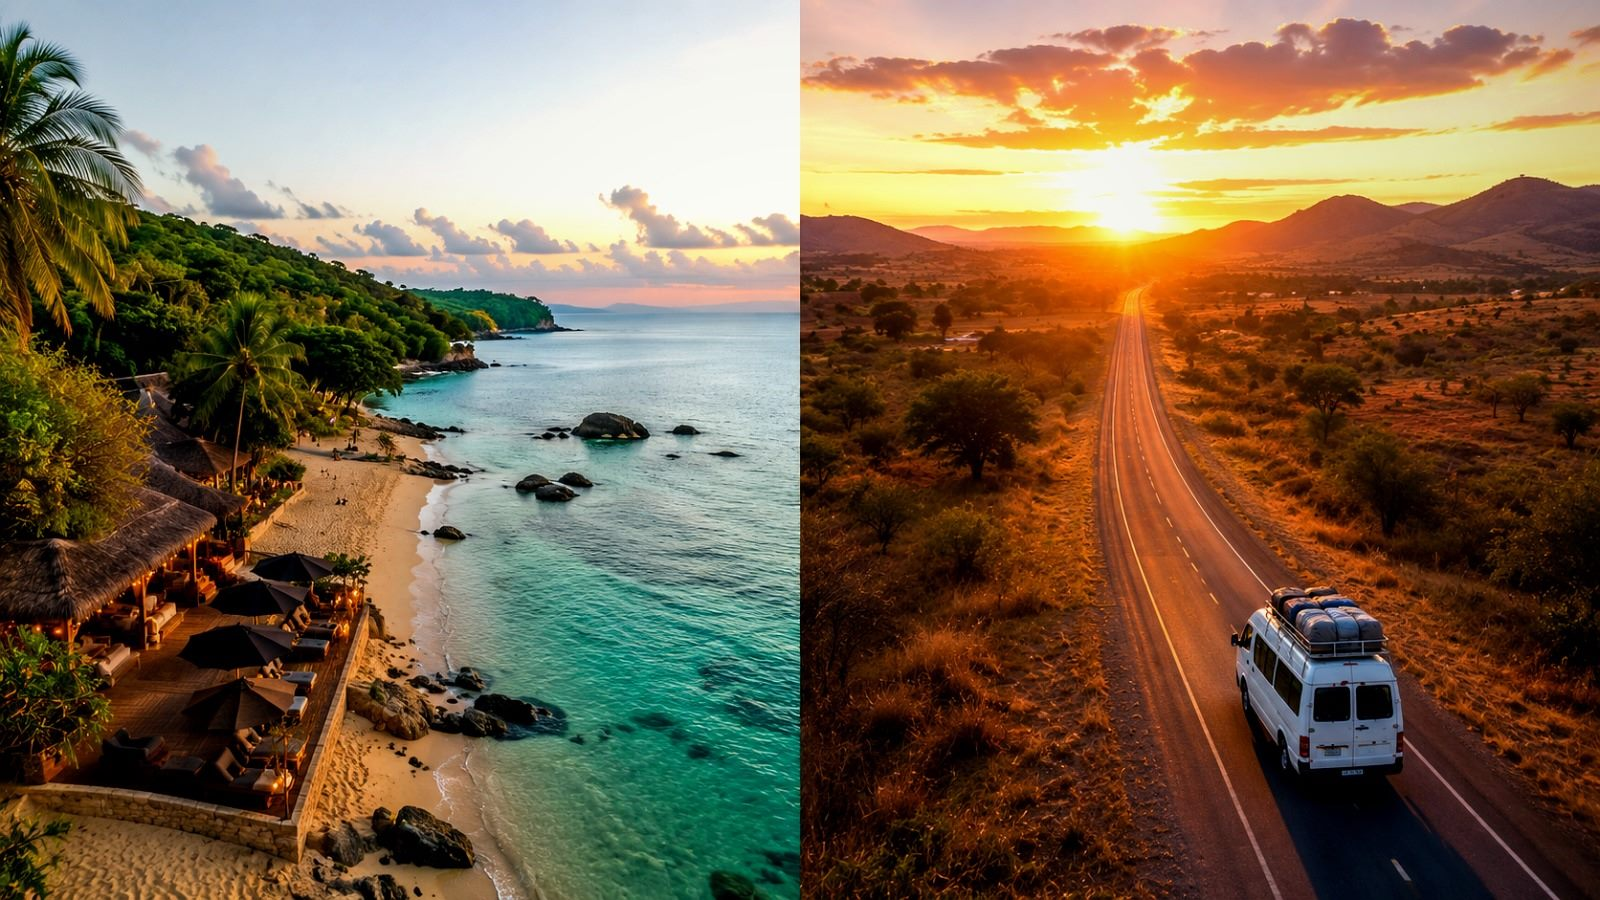
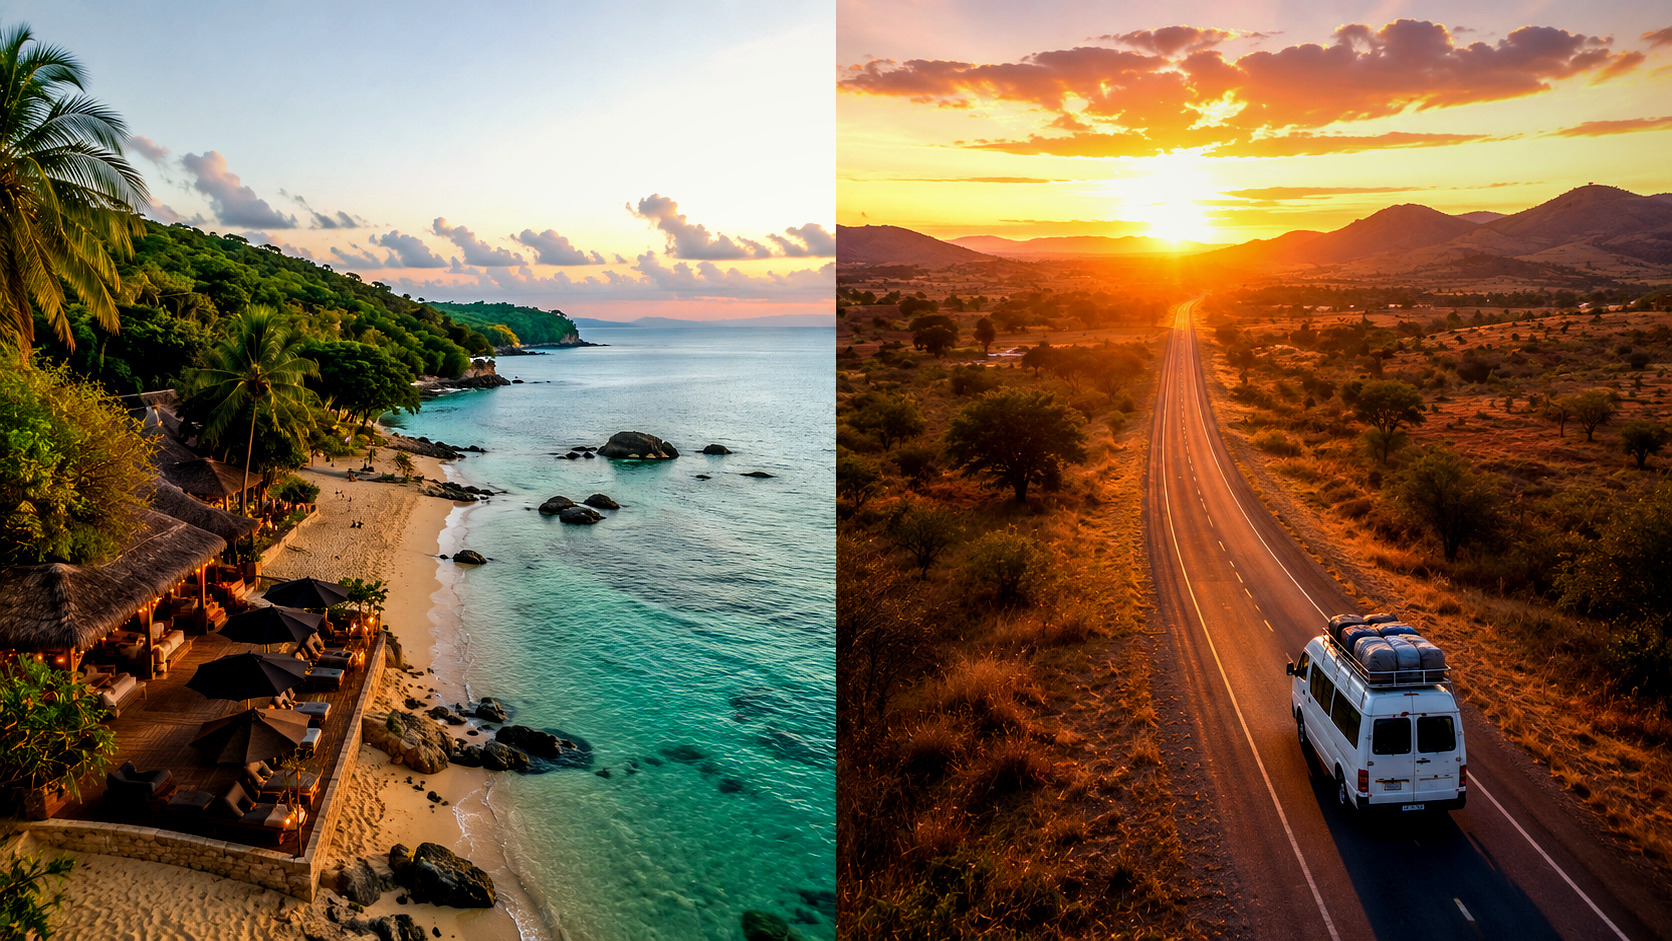
Retire le voile sombre des heros au profit d'un cartouche de texte
Les photos hero (mere, CVM, MLR et pages routes) restent nettes et
pleinement visibles : plus de degrade assombrissant global ni d'ombres
portees sur le texte — le contraste est porte par un cartouche sombre
semi-transparent arrondi (backdrop-blur) derriere le bloc de texte.
Stamp gagne un ton « contrast » pour rester lisible dans le cartouche.
Exports haute resolution des triptyques integres ; alt et labels
alignes sur le contenu reel des visuels.

diff --git a/src/components/sections/HeroBackground.tsx b/src/components/sections/HeroBackground.tsx
@@ -10,49 +10,42 @@ type Props = {
 };
 
 /**
- * Fond plein cadre d'un hero : tant que `src` est absent, un dégradé
- * placeholder clair (voile clair, texte sombre par-dessus) réserve la place
- * et porte l'alt. Une fois l'asset fourni, la vraie photo le remplace,
- * nette et pleine résolution ; seul un voile sombre concentré en haut du
- * cadre (là où vit le texte, en mobile comme en PC) assure le contraste —
- * le reste de la photo reste net et pleinement visible, mis en valeur.
+ * Fond plein cadre d'un hero. Une fois l'asset fourni (`src`), la photo occupe
+ * tout le cadre, nette et pleine résolution, SANS voile assombrissant : la
+ * lisibilité du texte clair est assurée localement par un cartouche sombre
+ * (voir Hero / MlrRoutePage), pas par un voile global — l'image reste ainsi
+ * pleinement visible et mise en valeur. Tant que `src` est absent, un dégradé
+ * placeholder clair réserve la place, porte l'alt et laisse lire le texte
+ * sombre par-dessus.
  */
 export function HeroBackground({ label, alt, src }: Props) {
-  return (
+  return src ? (
+    <Image
+      src={src}
+      alt={alt}
+      fill
+      priority
+      quality={90}
+      sizes="100vw"
+      className="object-cover"
+    />
+  ) : (
     <>
-      {src ? (
-        <Image
-          src={src}
-          alt={alt}
-          fill
-          priority
-          quality={90}
-          sizes="100vw"
-          className="object-cover"
-        />
-      ) : (
-        <div
-          role="img"
-          aria-label={alt}
-          className="absolute inset-0 bg-linear-to-br from-surface-2 via-card to-accent-soft/40"
-        />
-      )}
+      <div
+        role="img"
+        aria-label={alt}
+        className="absolute inset-0 bg-linear-to-br from-surface-2 via-card to-accent-soft/40"
+      />
       <div
         aria-hidden
-        className={
-          src
-            ? "absolute inset-0 bg-linear-to-b from-ink-strong/75 via-ink-strong/20 to-transparent"
-            : "absolute inset-0 bg-linear-to-br from-surface/85 via-surface/65 to-surface/50"
-        }
+        className="absolute inset-0 bg-linear-to-br from-surface/85 via-surface/65 to-surface/50"
       />
-      {!src && (
-        <span
-          aria-hidden
-          className="pointer-events-none absolute bottom-2 right-3 max-w-[45%] truncate text-[10px] font-medium uppercase tracking-wide text-ink-soft/45"
-        >
-          {label}
-        </span>
-      )}
+      <span
+        aria-hidden
+        className="pointer-events-none absolute bottom-2 right-3 max-w-[45%] truncate text-[10px] font-medium uppercase tracking-wide text-ink-soft/45"
+      >
+        {label}
+      </span>
     </>
   );
 }

diff --git a/src/components/pages/MlrRoutePage.tsx b/src/components/pages/MlrRoutePage.tsx
@@ -7,6 +7,7 @@ import { SectionHeading } from "@/components/sections/SectionHeading";
 import { TempsForts } from "@/components/sections/TempsForts";
 import { Pill, Stamp } from "@/components/ui/Pill";
 import { ScrollCtaLink } from "@/components/ui/ScrollCtaLink";
+import { cn } from "@/lib/cn";
 import {
   MLR_SERVICES,
   MLR_STAMP,
@@ -20,6 +21,9 @@ import {
  * bas de page, route pré-sélectionnée : les CTA scrollent vers lui.
  */
 export function MlrRoutePage({ content }: { content: MlrRouteContent }) {
+  // Photo posée : cartouche sombre + texte clair (l'image reste sans voile) ;
+  // sinon dégradé placeholder clair, texte sombre par-dessus (voir Hero).
+  const hasImage = Boolean(content.imageAmbiance.src);
   return (
     <>
       <section className="relative overflow-hidden">
@@ -29,15 +33,36 @@ export function MlrRoutePage({ content }: { content: MlrRouteContent }) {
           src={content.imageAmbiance.src}
         />
         <div className="relative z-10 mx-auto w-full max-w-6xl px-4 py-14 sm:px-6 sm:py-20 lg:py-24">
-          <div className="animate-fade-rise max-w-2xl">
-            <Stamp>{MLR_STAMP}</Stamp>
-            <h1 className="mt-4 font-heading text-4xl font-bold uppercase tracking-wide text-ink-strong sm:text-6xl">
+          <div
+            className={cn(
+              "animate-fade-rise max-w-2xl",
+              hasImage &&
+                "rounded-2xl bg-ink-strong/30 p-6 backdrop-blur-sm sm:p-8",
+            )}
+          >
+            <Stamp tone={hasImage ? "contrast" : "accent"}>{MLR_STAMP}</Stamp>
+            <h1
+              className={cn(
+                "mt-4 font-heading text-4xl font-bold uppercase tracking-wide sm:text-6xl",
+                hasImage ? "text-accent-contrast" : "text-ink-strong",
+              )}
+            >
               {content.titre}
             </h1>
-            <p className="mt-3 max-w-prose text-lg text-ink-soft">
+            <p
+              className={cn(
+                "mt-3 max-w-prose text-lg",
+                hasImage ? "text-accent-contrast/90" : "text-ink-soft",
+              )}
+            >
               {content.sousTitre}
             </p>
-            <p className="mt-4 font-heading text-lg font-bold uppercase tracking-wide text-accent">
+            <p
+              className={cn(
+                "mt-4 font-heading text-lg font-bold uppercase tracking-wide",
+                hasImage ? "text-accent-contrast" : "text-accent",
+              )}
+            >
               {MLR_TARIFS.dixJours} · {MLR_TARIFS.quinzeJours}
             </p>
             <div className="mt-2">
@@ -47,11 +72,26 @@ export function MlrRoutePage({ content }: { content: MlrRouteContent }) {
               <ScrollCtaLink targetId="questionnaire">
                 {content.ctaLabel}
               </ScrollCtaLink>
-              <ScrollCtaLink targetId="devis-explicatif" variant="outline">
+              <ScrollCtaLink
+                targetId="devis-explicatif"
+                variant="outline"
+                className={
+                  hasImage
+                    ? "!border-accent-contrast !text-accent-contrast hover:!bg-accent-contrast/15"
+                    : undefined
+                }
+              >
                 Découvrir le devis explicatif
               </ScrollCtaLink>
             </div>
-            <p className="mt-4 text-xs text-ink-soft">{MLR_TARIFS.idealPour}</p>
+            <p
+              className={cn(
+                "mt-4 text-xs",
+                hasImage ? "text-accent-contrast/85" : "text-ink-soft",
+              )}
+            >
+              {MLR_TARIFS.idealPour}
+            </p>
           </div>
         </div>
       </section>

diff --git a/src/components/sections/Hero.tsx b/src/components/sections/Hero.tsx
@@ -22,9 +22,9 @@ type Props = {
  * Hero générique — image en fond plein cadre, identique en mobile et en PC.
  * Le CTA principal reste above the fold en 390×844. Tant qu'aucune photo
  * réelle n'est fournie (`imageSrc`), le texte reste sombre sur le dégradé
- * placeholder clair ; une fois la photo posée, le texte bascule en clair
- * (+ ombre portée) sur un voile sombre concentré en haut du cadre, pour que
- * l'image reste lisible et mise en valeur sur le reste du cadre.
+ * placeholder clair ; une fois la photo posée, l'image reste pleinement
+ * visible (aucun voile global) et le texte bascule en clair sur un cartouche
+ * sombre semi-transparent à coins arrondis, qui porte seul le contraste.
  */
 export function Hero({
   surtitre,
@@ -42,14 +42,19 @@ export function Hero({
     <section className="relative overflow-hidden">
       <HeroBackground label={imageLabel} alt={imageAlt} src={imageSrc} />
       <div className="relative z-10 mx-auto w-full max-w-6xl px-4 py-14 sm:px-6 sm:py-20 lg:py-28">
-        <div className="animate-fade-rise max-w-2xl">
+        <div
+          className={cn(
+            "animate-fade-rise max-w-2xl",
+            // Cartouche sombre : porte le contraste du texte clair sans voiler
+            // l'image (le reste du cadre photo reste net et pleinement visible).
+            hasImage && "rounded-2xl bg-ink-strong/30 p-6 backdrop-blur-sm sm:p-8",
+          )}
+        >
           {surtitre && (
             <p
               className={cn(
                 "text-xs font-semibold uppercase tracking-[0.2em]",
-                hasImage
-                  ? "text-accent-contrast text-shadow-sm text-shadow-ink-strong/70"
-                  : "text-accent",
+                hasImage ? "text-accent-contrast" : "text-accent",
               )}
             >
               {surtitre}
@@ -58,9 +63,7 @@ export function Hero({
           <h1
             className={cn(
               "mt-3 text-balance font-heading text-3xl font-bold leading-tight sm:text-5xl",
-              hasImage
-                ? "text-accent-contrast text-shadow-lg text-shadow-ink-strong/70"
-                : "text-ink-strong",
+              hasImage ? "text-accent-contrast" : "text-ink-strong",
             )}
           >
             {titre}
@@ -68,9 +71,7 @@ export function Hero({
           <p
             className={cn(
               "mt-4 max-w-prose text-base sm:text-lg",
-              hasImage
-                ? "text-accent-contrast/90 text-shadow-md text-shadow-ink-strong/60"
-                : "text-ink-soft",
+              hasImage ? "text-accent-contrast/90" : "text-ink-soft",
             )}
           >
             {sousTitre}
@@ -112,9 +113,7 @@ export function Hero({
             <p
               className={cn(
                 "mt-4 text-xs",
-                hasImage
-                  ? "text-accent-contrast/85 text-shadow-sm text-shadow-ink-strong/60"
-                  : "text-ink-soft",
+                hasImage ? "text-accent-contrast/85" : "text-ink-soft",
               )}
             >
               {micro.join(" · ")}

diff --git a/src/components/ui/Pill.tsx b/src/components/ui/Pill.tsx
@@ -24,14 +24,18 @@ export function Pill({
 export function Stamp({
   children,
   className,
+  tone = "accent",
 }: {
   children: ReactNode;
   className?: string;
+  /** "contrast" (crème) sur fond sombre — ex. cartouche du hero. */
+  tone?: "accent" | "contrast";
 }) {
   return (
     <span
       className={cn(
-        "stamp inline-block px-3 py-1 text-xs font-bold text-accent",
+        "stamp inline-block px-3 py-1 text-xs font-bold",
+        tone === "contrast" ? "text-accent-contrast" : "text-accent",
         className,
       )}
     >

diff --git a/src/config/content/cvm.ts b/src/config/content/cvm.ts
@@ -277,8 +277,8 @@ export const CVM_LANDING = {
     titre: "Madagascar, là où les autres ne vont pas",
     sousTitre:
       "Quatre expériences encadrées par une équipe locale : l'expédition insolite, le trek aventure, le séjour à deux ou le grand tour d'un mois. Vous gardez l'émotion — nous gérons toute la logistique.",
-    imageLabel: "Collage des 4 univers CVM",
-    imageAlt: "Collage des quatre expériences : bivouac, trek, plage et projet de vie",
+    imageLabel: "Triptyque des expériences CVM",
+    imageAlt: "Triptyque des expériences : plage et bateau turquoise, faune insolite, trek vers les massifs",
   },
   orientation: {
     titre: "Vous ne savez pas laquelle choisir ?",

diff --git a/src/config/content/mlr.ts b/src/config/content/mlr.ts
@@ -436,8 +436,8 @@ export const MLR_LANDING = {
     // Signature dictée par le boss (2026-07) en tête de sous-titre.
     sousTitre:
       "La liberté de vivre simplement une expérience unique. Quatre roots, un guide local privé, le taxi-brousse — et votre liberté comme fil conducteur.",
-    imageLabel: "Logo baobab + piste — ambiance affiche",
-    imageAlt: "Baobab et piste de terre rouge, ambiance affiche vintage",
+    imageLabel: "Triptyque ambiance roots",
+    imageAlt: "Triptyque roots : tuk-tuk à Majunga, immersion en ville, taxi-brousse chargé",
   },
   durees: [
     {

diff --git a/src/components/sections/UniversPicker.tsx b/src/components/sections/UniversPicker.tsx
@@ -40,7 +40,7 @@ export function UniversPicker() {
             <ContentImage
               ratio="16/9"
               src="/images/cvm/hero-cvm.jpeg"
-              alt="4×4 chargé sur la route bordée de baobabs"
+              alt="Triptyque des expériences : plage et bateau turquoise, faune insolite, trek vers les massifs"
               sizes="(min-width: 1152px) 552px, 50vw"
             />
             <p className="mt-5 font-heading text-xl font-bold text-ink-strong sm:text-3xl">